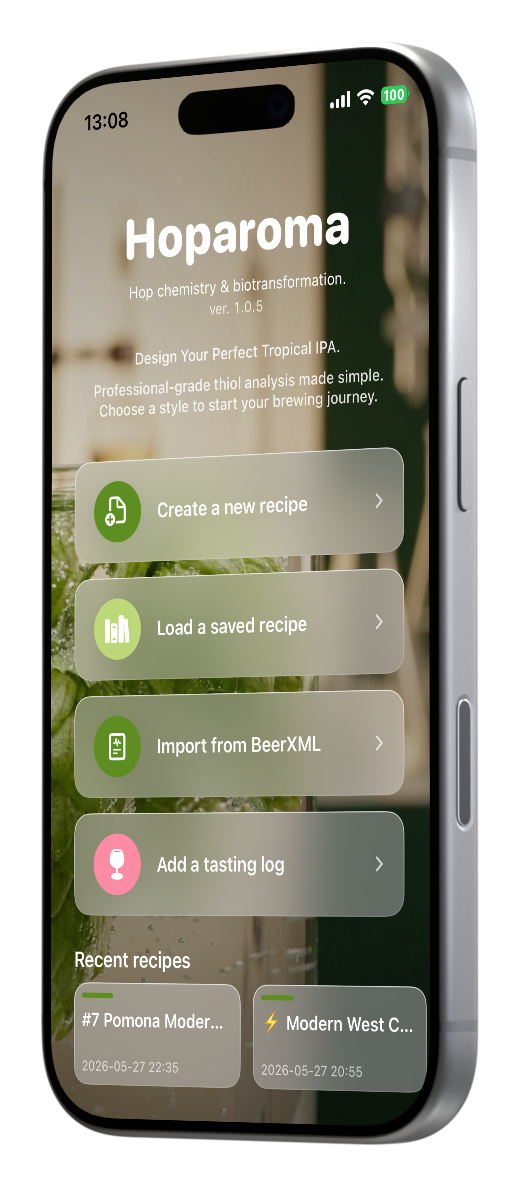
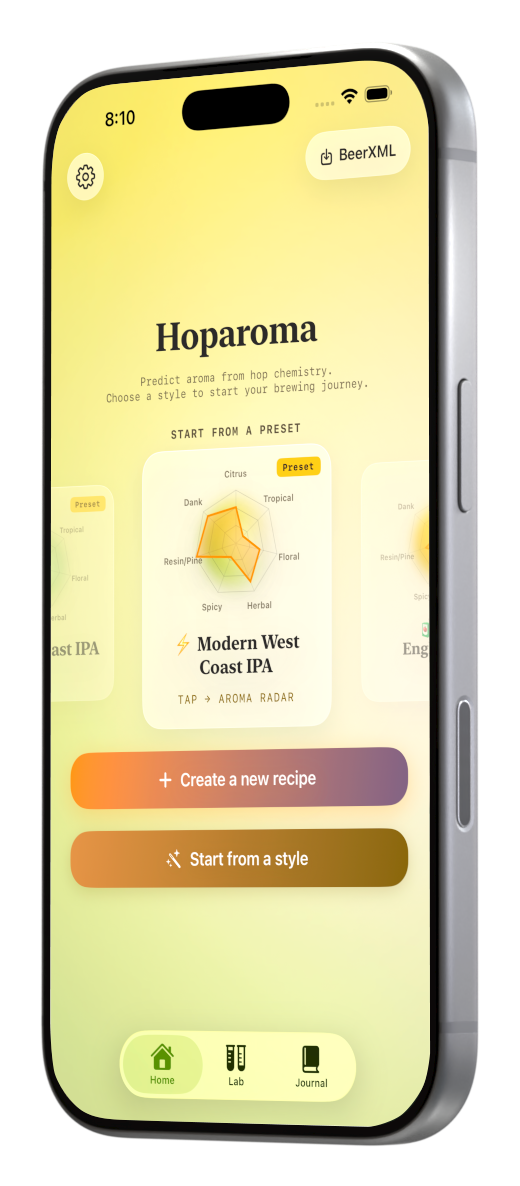
feat: hero refresh — capability-first copy, 2.0 mockup, 2-column layout
- Rewrite hero headline to "From recipe chemistry to predicted flavor"
  (capability-first, away from thiol-only framing); align meta + OG
  descriptions to match
- Remove the "Tokyo-made iOS app" eyebrow pill for a cleaner hero
- Replace the 1.0.5 device mockup with the 2.0 home (iPhone 17 Pro);
  add full-res source hero-mockup-2.0-source.png
- Refactor hero to a 2-column grid (copy / device) so text and device
  can never overlap; stacks below 960px, device capped at 40vw to keep
  tall viewports safe

diff --git a/index.html b/index.html
@@ -6,13 +6,13 @@
     <title>Hoparoma — Brew tropical IPA simply.</title>
     <meta
       name="description"
-      content="Hoparoma is an iOS app for IPA brewers: a 4-axis Thiol Forecast (yeast × hop × malt × Phantasm), plus on-device Apple Intelligence that writes the tasting note and co-pilots your recipe. AI needs iOS 26 on a supported iPhone. Built on peer-reviewed research, designed in Tokyo."
+      content="Hoparoma predicts your IPA's flavor from the chemistry of your recipe — aroma compounds computed from peer-reviewed research, down to the tropical thiols. Plus on-device Apple Intelligence that writes the tasting note and co-pilots your recipe. AI needs iOS 26 on a supported iPhone. Designed in Tokyo."
     />
     <meta name="color-scheme" content="light" />
     <meta property="og:title" content="Hoparoma — Brew tropical IPA simply." />
     <meta
       property="og:description"
-      content="Predict tropical thiol expression in modern IPAs with a 4-axis Thiol Forecast — now with on-device Apple Intelligence that writes the tasting note and co-pilots your recipe. AI needs iOS 26 on a supported iPhone."
+      content="Predict your IPA's aroma and character from your recipe's chemistry — computed from peer-reviewed research — now with on-device Apple Intelligence that writes the tasting note and co-pilots your recipe. AI needs iOS 26 on a supported iPhone."
     />
     <meta property="og:image" content="/assets/icon-1024.png" />
     <meta property="og:type" content="website" />
@@ -54,31 +54,19 @@
       <!-- Section 1: Hero (Immersive Full-Bleed) -->
       <!-- ============================================================ -->
       <section class="hero" aria-labelledby="hero-heading">
-        <div class="hero__bg" aria-hidden="true">
-          <img
-            src="/assets/screenshot_framed/hero-mockup-cropped.png"
-            alt=""
-            class="hero__bg-image"
-          />
-          <div class="hero__bg-overlay"></div>
-        </div>
         <div class="container hero__content">
           <div class="hero__copy">
-            <span class="eyebrow-pill">
-              <span class="eyebrow-pill__dot" aria-hidden="true"></span>
-              A Tokyo-made iOS app for IPA brewers
-            </span>
             <h1 id="hero-heading" class="hero__title">
-              Brew tropical IPA simply.<br />
+              From recipe chemistry<br />
               <span class="hero__title-accent"
-                >with a 4-axis thiol forecast.</span
+                >to predicted flavor.</span
               >
             </h1>
             <p class="hero__lede">
-              Hoparoma is the first iOS app to predict tropical thiol
-              expression in modern IPAs — built on peer-reviewed research,
-              designed for brewers who want to see the chemistry behind their
-              beer.
+              Hoparoma calculates the hop, yeast, and malt aroma compounds in
+              your recipe — grounded in published research — and derives your
+              IPA's aroma and character, down to its tropical thiols, before
+              you brew.
             </p>
             <div class="hero__cta-row">
               <a
@@ -102,6 +90,13 @@
                 AI features need iOS 26 on a supported iPhone.
               </span>
             </div>
+          </div>
+          <div class="hero__visual" aria-hidden="true">
+            <img
+              src="/assets/screenshot_framed/hero-mockup-cropped.png"
+              alt=""
+              class="hero__device"
+            />
           </div>
         </div>
       </section>

diff --git a/style.css b/style.css
@@ -278,52 +278,28 @@ button {
   isolation: isolate;
 }
 
-.hero__bg {
-  position: absolute;
-  inset: 0;
-  z-index: -2;
+.hero__visual {
   display: flex;
-  justify-content: flex-end;
+  justify-content: center;
+  align-items: center;
 }
 
-.hero__bg-image {
-  height: 100%;
+.hero__device {
+  display: block;
   width: auto;
-  max-width: none;
-  object-fit: cover;
-  object-position: right center;
-  opacity: 1;
-}
-
-.hero__bg-overlay {
-  display: none;
-}
-
-@media (max-width: 767px) {
-  .hero {
-    min-height: 100vh;
-  }
-
-  .hero__bg {
-    justify-content: center;
-    align-items: flex-end;
-  }
-
-  .hero__bg-image {
-    object-fit: contain;
-    object-position: center bottom;
-    width: 100%;
-    height: auto;
-    max-width: 520px;
-    max-height: 70vh;
-    margin: 0;
-    opacity: 0.95;
-  }
+  height: auto;
+  max-width: min(100%, 300px);
+  max-height: 58vh;
 }
 
 .hero__content {
   position: relative;
   z-index: 1;
+  display: grid;
+  grid-template-columns: 1fr;
+  gap: var(--space-10);
+  align-items: center;
+  width: 100%;
 }
 
 .hero__copy {
@@ -357,6 +333,27 @@ button {
   flex-direction: column;
   align-items: flex-start;
   gap: var(--space-4);
+}
+
+@media (min-width: 960px) {
+  .hero__content {
+    grid-template-columns: minmax(0, 1fr) minmax(0, auto);
+    gap: clamp(var(--space-8), 5vw, var(--space-16));
+    align-items: center;
+  }
+
+  .hero__copy {
+    max-width: 720px;
+  }
+
+  .hero__visual {
+    justify-self: end;
+  }
+
+  .hero__device {
+    max-width: 40vw;
+    max-height: 84vh;
+  }
 }
 
 .badge-link {
